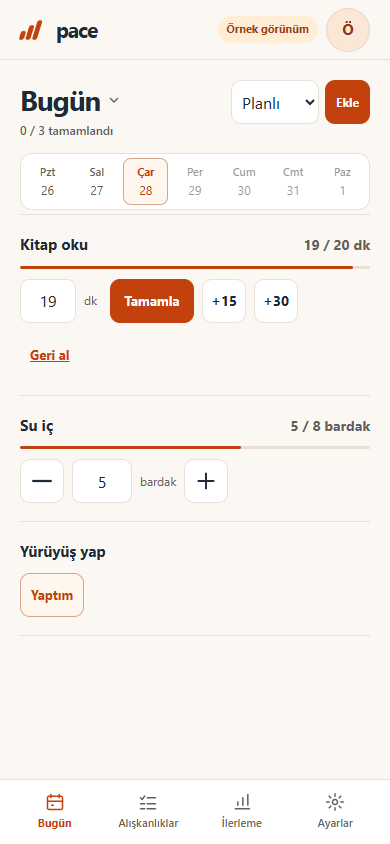
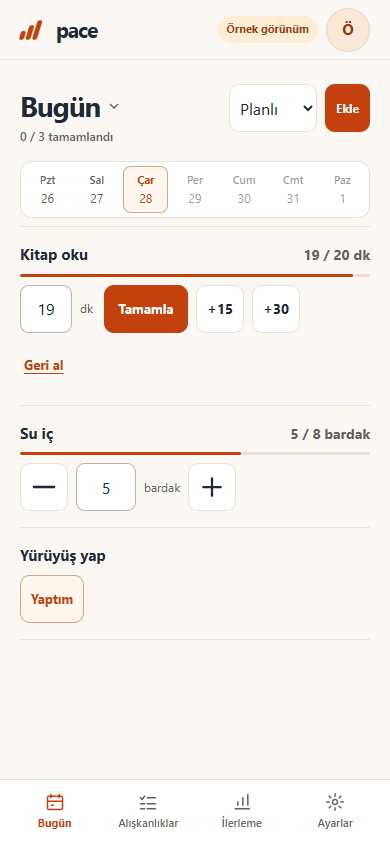
Prevent login flash during session restore and polish mobile spacing and touch targets

diff --git a/assets/js/app.js b/assets/js/app.js
@@ -28,8 +28,8 @@ refresh:()=>loadState({quiet:true}),onChange:(id,day,entry)=>{entryStates.set(ke
 try{const drafts=JSON.parse(storage?.getItem(storageKey)||'[]');for(const d of drafts){const entry=entryQueue.get(d.id,d.day);if(entry&&state.habits.some(h=>h.id===d.id))entryStates.set(keyFor(d.id,d.day),{id:d.id,day:d.day,entry})}}catch{}
 }
 function hasUnsaved(){return Boolean(entryQueue?.hasPending()||invalidDrafts.size)}
-function showAuth(message=''){loadGuard.reset();lastSaveAt=0;clearTimeout(savedStatusTimer);entryQueue?.dispose();entryQueue=null;entryStates.clear();invalidDrafts.clear();state={habits:[],checkins:[],week_start:1,user:null};ready=false;sessionUser=null;$('#app').classList.add('hidden');$('#auth-screen').classList.remove('hidden');setAuthMode('login');$('#auth-password').value='';$('#auth-message').textContent=message}
-function enterApp(user){loadGuard.reset();lastSaveAt=0;clearTimeout(savedStatusTimer);entryQueue?.dispose();entryQueue=null;entryStates.clear();invalidDrafts.clear();sessionUser=user||{email:'Örnek görünüm',id:'demo'};if(isDemo())sessionUser.id='demo';state={habits:[],checkins:[],week_start:user?.week_start??1,user};ready=false;selectedDate=dateKey();showAll=false;$('#auth-screen').classList.add('hidden');$('#app').classList.remove('hidden');$('#account-email').textContent=sessionUser.email;$('#account-button').textContent=sessionUser.email.charAt(0).toLocaleUpperCase('tr-TR');$('#demo-badge').classList.toggle('hidden',!isDemo());$('#delete-account-button').classList.toggle('hidden',isDemo());$('#device-timezone').textContent=Intl.DateTimeFormat().resolvedOptions().timeZone.replaceAll('_',' ');navigate('today');renderAll();void loadState()}
+function showAuth(message=''){$('#startup-screen').hidden=true;$('#startup-screen').classList.add('hidden');loadGuard.reset();lastSaveAt=0;clearTimeout(savedStatusTimer);entryQueue?.dispose();entryQueue=null;entryStates.clear();invalidDrafts.clear();state={habits:[],checkins:[],week_start:1,user:null};ready=false;sessionUser=null;$('#app').hidden=true;$('#app').classList.add('hidden');$('#auth-screen').hidden=false;$('#auth-screen').classList.remove('hidden');setAuthMode('login');$('#auth-password').value='';$('#auth-message').textContent=message}
+function enterApp(user){$('#startup-screen').hidden=true;$('#startup-screen').classList.add('hidden');loadGuard.reset();lastSaveAt=0;clearTimeout(savedStatusTimer);entryQueue?.dispose();entryQueue=null;entryStates.clear();invalidDrafts.clear();sessionUser=user||{email:'Örnek görünüm',id:'demo'};if(isDemo())sessionUser.id='demo';state={habits:[],checkins:[],week_start:user?.week_start??1,user};ready=false;selectedDate=dateKey();showAll=false;$('#auth-screen').hidden=true;$('#auth-screen').classList.add('hidden');$('#app').hidden=false;$('#app').classList.remove('hidden');$('#account-email').textContent=sessionUser.email;$('#account-button').textContent=sessionUser.email.charAt(0).toLocaleUpperCase('tr-TR');$('#demo-badge').classList.toggle('hidden',!isDemo());$('#delete-account-button').classList.toggle('hidden',isDemo());$('#device-timezone').textContent=Intl.DateTimeFormat().resolvedOptions().timeZone.replaceAll('_',' ');navigate('today');renderAll();void loadState()}
 async function loadState({quiet=false}={}){const ticket=loadGuard.begin();if(!quiet)syncState('Yükleniyor…');$('#load-state').classList.toggle('hidden',ready);$('#reload-state').classList.add('hidden');try{const data=await request('habits');if(!loadGuard.isCurrent(ticket)||!sessionUser)return false;state={...state,...data,habits:data.habits||[],checkins:mergeCheckins(state.checkins,data.checkins||[]),week_start:Number(data.week_start??1)};ready=true;if(!entryQueue)setupQueue();$('#load-state').classList.add('hidden');if(quiet&&(hasUnsaved()||document.activeElement?.matches('.amount-input'))){for(const h of state.habits)updateRow(h.id,selectedDate);renderHabits();renderProgress();updateSummary()}else renderAll();return true}catch(e){if(!loadGuard.isCurrent(ticket)||!sessionUser)return false;if(e.status===401){showAuth('Oturumun sona erdi. Yeniden giriş yap.');return false}$('#load-state').classList.remove('hidden');$('#load-message').textContent=ready?'Güncel görünüm yüklenemedi.':'Verilerin yüklenemedi.';$('#reload-state').classList.remove('hidden');syncState('Bağlantı kurulamadı','error');return false}}
 function navigate(view){$$('.nav-item[data-view]').forEach(b=>{b.classList.toggle('is-active',b.dataset.view===view);if(b.dataset.view===view)b.setAttribute('aria-current','page');else b.removeAttribute('aria-current')});$$('.page-view').forEach(p=>p.classList.toggle('hidden',p.id!=='view-'+view));if(view==='progress')renderProgress()}
 function dayMetrics(habit,day,logs){const h=settingsAt(habit,day),actual=amountFor(habit,day,logs),exists=logs.some(x=>!x.deleted&&x.habit_id===habit.id&&x.habit_date===day),goal=h.tracking==='check'?1:goalFor(habit,day,logs,state.week_start);const done=h.tracking==='check'?actual>=1:h.direction==='at_most'?exists&&actual<=goal:actual>=goal;const progress=h.tracking==='check'?Number(done):h.direction==='at_most'?(exists?Math.min(1,goal/Math.max(actual,.001)):0):Math.min(1,actual/goal);return {h,actual,exists,goal,done,progress}}
@@ -98,8 +98,28 @@ $('#confirm-action').addEventListener('click',async()=>{if(!pendingAction)return
 function setAuthMode(mode){authStep=mode;$('#auth-title').textContent=mode==='register'?'Hesap oluştur':mode==='recover'?'Hesabını kurtar':'PACE’e giriş yap';$('#auth-message').textContent='';$('#recovery-field-wrap').classList.toggle('hidden',mode!=='recover');$('#auth-recovery').required=mode==='recover';$('#auth-password').autocomplete=mode==='login'?'current-password':'new-password';$('#auth-password-label').textContent=mode==='recover'?'Yeni parolan':'Parolan';$('#auth-submit').textContent=mode==='register'?'Hesap oluştur':mode==='recover'?'Hesabımı kurtar':'Giriş yap';$('#auth-register-link').classList.toggle('hidden',mode==='register');$('#auth-login-link').classList.toggle('hidden',mode==='login');$('#auth-recover-link').classList.toggle('hidden',mode==='recover')}
 async function submitAuth(e){e.preventDefault();const button=$('#auth-submit');if(button.disabled)return;const email=$('#auth-email').value.trim(),password=$('#auth-password').value,recovery_code=$('#auth-recovery').value.trim();button.disabled=true;$('#auth-message').textContent='';try{const data=await request('auth/'+authStep,{method:'POST',body:JSON.stringify({email,password,...(authStep==='recover'?{recovery_code}:{})})});$('#auth-password').value='';$('#auth-recovery').value='';enterApp(data.user);if(data.recovery_code){$('#recovery-code').value=data.recovery_code;$('#recovery-dialog').showModal()}}catch(err){$('#auth-message').textContent=err.message||'İşlem tamamlanamadı.'}finally{button.disabled=false}}
 
-async function boot(){initWeekdayPicker();bind();if(isDemo()){enterApp({email:'Örnek görünüm',id:'demo'});return}try{const data=await request('auth/me');enterApp(data.user)}catch(e){showAuth(e.status===401?'':e.message)}}
+function showStartupError(){
+  $('#app').hidden=true;$('#app').classList.add('hidden');$('#auth-screen').hidden=true;$('#auth-screen').classList.add('hidden');
+  $('#startup-screen').hidden=false;$('#startup-screen').classList.remove('hidden');
+  $('#startup-message').textContent='PACE’e bağlanılamadı. Bağlantını kontrol edip yeniden dene.';
+  $('#startup-retry').classList.remove('hidden');
+}
+let restoringSession=false;
+async function restoreSession(){
+  if(restoringSession)return;
+  restoringSession=true;$('#startup-retry').disabled=true;
+  $('#startup-message').textContent='PACE hazırlanıyor…';
+  $('#startup-retry').classList.add('hidden');
+  try{
+    if(isDemo()){enterApp({email:'Örnek görünüm',id:'demo'});return}
+    const data=await request('auth/me');
+    if(!data?.user||typeof data.user.id!=='string'||!data.user.id||typeof data.user.email!=='string'||!data.user.email)throw new Error('Geçersiz oturum yanıtı.');
+    enterApp(data.user);
+  }catch(e){if(e.status===401)showAuth();else showStartupError()}
+  finally{restoringSession=false;$('#startup-retry').disabled=false}
+}
+async function boot(){initWeekdayPicker();bind();$('#startup-retry').addEventListener('click',()=>void restoreSession());await restoreSession()}
 if('serviceWorker' in navigator)navigator.serviceWorker.register('/sw.js').catch(()=>{});
-boot();
+boot().catch(showStartupError);
 
 

diff --git a/index.html b/index.html
@@ -12,7 +12,14 @@
   <title>PACE — kendi ritminde</title>
 </head>
 <body>
-  <div id="app" class="app-shell hidden">
+  <section class="startup-screen" id="startup-screen" aria-labelledby="startup-title">
+    <h1 class="startup-brand" id="startup-title"><span class="brand-mark" aria-hidden="true"><i></i><i></i><i></i></span><span>pace</span></h1>
+    <p id="startup-message" role="status" aria-live="polite">PACE hazırlanıyor…</p>
+    <button type="button" id="startup-retry" class="button button-primary hidden">Tekrar dene</button>
+    <details id="startup-fallback" class="startup-fallback"><summary>Açılması uzun mu sürdü?</summary><p>Bağlantını kontrol edip <a href="">sayfayı yenileyebilirsin</a>.</p></details>
+    <noscript><p>PACE’i açmak için tarayıcında JavaScript’i etkinleştirip sayfayı yenile.</p></noscript>
+  </section>
+  <div id="app" class="app-shell hidden" hidden>
     <aside class="sidebar" aria-label="Ana gezinme">
       <a class="brand" href="#today" aria-label="PACE ana sayfa"><span class="brand-mark" aria-hidden="true"><i></i><i></i><i></i></span><span>pace</span></a>
       <nav class="nav-list">
@@ -43,7 +50,7 @@
       <nav class="mobile-nav" aria-label="Ana gezinme"><button class="nav-item is-active" data-view="today" aria-current="page"><span class="nav-icon"><svg viewBox="0 0 24 24" fill="none" stroke="currentColor" stroke-width="1.8" stroke-linecap="round" stroke-linejoin="round" aria-hidden="true"><rect x="3" y="5" width="18" height="16" rx="2"/><path d="M7 3v4m10-4v4M3 11h18m-13 5h2"/></svg></span><span>Bugün</span></button><button class="nav-item" data-view="habits"><span class="nav-icon"><svg viewBox="0 0 24 24" fill="none" stroke="currentColor" stroke-width="1.8" stroke-linecap="round" stroke-linejoin="round" aria-hidden="true"><path d="m3 7 2 2 3-4M11 7h10M3 14h5m3 0h10M3 20h5m3 0h10"/></svg></span><span>Alışkanlıklar</span></button><button class="nav-item" data-view="progress"><span class="nav-icon"><svg viewBox="0 0 24 24" fill="none" stroke="currentColor" stroke-width="1.8" stroke-linecap="round" stroke-linejoin="round" aria-hidden="true"><path d="M4 20h17M7 16v-4m6 4V7m6 9V3"/></svg></span><span>İlerleme</span></button><button class="nav-item" data-view="settings"><span class="nav-icon"><svg viewBox="0 0 24 24" fill="none" stroke="currentColor" stroke-width="1.8" stroke-linecap="round" stroke-linejoin="round" aria-hidden="true"><circle cx="12" cy="12" r="3"/><path d="M12 2v3m0 14v3M2 12h3m14 0h3M5 5l2 2m10 10 2 2M5 19l2-2M17 7l2-2"/></svg></span><span>Ayarlar</span></button></nav>
     </main>
   </div>
-  <section class="auth-screen" id="auth-screen" aria-labelledby="auth-title"><div class="auth-brand"><span class="brand-mark" aria-hidden="true"><i></i><i></i><i></i></span><span>pace</span></div><div class="auth-panel"><h1 id="auth-title">Alışkanlıklarına yer aç.</h1><form id="auth-form"><label for="auth-email">E-posta adresin</label><input id="auth-email" name="email" type="email" autocomplete="username" required placeholder="ornek@email.com"><div id="recovery-field-wrap" class="hidden"><label for="auth-recovery">Kurtarma kodun</label><input id="auth-recovery" name="recovery" type="text" autocomplete="off" spellcheck="false" placeholder="Hesabını açarken kaydettiğin kod"></div><label for="auth-password" id="auth-password-label">Parolan</label><input id="auth-password" name="password" type="password" autocomplete="current-password" minlength="10" maxlength="128" required placeholder="En az 10 karakter"><button class="button button-primary auth-submit" id="auth-submit" type="submit">Giriş yap</button><p class="form-message" id="auth-message" role="status"></p></form><div class="auth-switch"><button type="button" data-auth-mode="register" id="auth-register-link">Hesap oluştur</button><button type="button" data-auth-mode="login" id="auth-login-link" class="hidden">Giriş yap</button><button type="button" data-auth-mode="recover" id="auth-recover-link">Parolamı unuttum</button></div><p class="auth-privacy">Verilerin hesabında saklanır.</p><a class="demo-link" href="?demo=1">Örnek görünümü aç</a></div></section>
+  <section class="auth-screen hidden" id="auth-screen" hidden aria-labelledby="auth-title"><div class="auth-brand"><span class="brand-mark" aria-hidden="true"><i></i><i></i><i></i></span><span>pace</span></div><div class="auth-panel"><h1 id="auth-title">Alışkanlıklarına yer aç.</h1><form id="auth-form"><label for="auth-email">E-posta adresin</label><input id="auth-email" name="email" type="email" autocomplete="username" required placeholder="ornek@email.com"><div id="recovery-field-wrap" class="hidden"><label for="auth-recovery">Kurtarma kodun</label><input id="auth-recovery" name="recovery" type="text" autocomplete="off" spellcheck="false" placeholder="Hesabını açarken kaydettiğin kod"></div><label for="auth-password" id="auth-password-label">Parolan</label><input id="auth-password" name="password" type="password" autocomplete="current-password" minlength="10" maxlength="128" required placeholder="En az 10 karakter"><button class="button button-primary auth-submit" id="auth-submit" type="submit">Giriş yap</button><p class="form-message" id="auth-message" role="status"></p></form><div class="auth-switch"><button type="button" data-auth-mode="register" id="auth-register-link">Hesap oluştur</button><button type="button" data-auth-mode="login" id="auth-login-link" class="hidden">Giriş yap</button><button type="button" data-auth-mode="recover" id="auth-recover-link">Parolamı unuttum</button></div><p class="auth-privacy">Verilerin hesabında saklanır.</p><a class="demo-link" href="?demo=1">Örnek görünümü aç</a></div></section>
   <dialog class="habit-dialog" id="habit-dialog" aria-labelledby="habit-dialog-title"><form id="habit-form" novalidate>
     <div class="dialog-header"><h2 id="habit-dialog-title">Alışkanlık ekle</h2><button class="icon-button" type="button" data-close-dialog aria-label="Pencereyi kapat"><svg viewBox="0 0 24 24" fill="none" stroke="currentColor" stroke-width="2" aria-hidden="true"><path d="m6 6 12 12M18 6 6 18"/></svg></button></div>
     <div class="dialog-body"><input type="hidden" id="habit-id">

diff --git a/assets/styles.css b/assets/styles.css
@@ -29,3 +29,48 @@ html{touch-action:pan-x pan-y;-webkit-text-size-adjust:100%;text-size-adjust:100
 
 /* Save feedback shares the title caption so recording never moves the list. */
 #view-today .page-heading{position:relative}#view-today .today-heading-actions{padding-bottom:12px}#view-today #today-status{position:absolute;bottom:0;right:0;margin:0;max-width:48%;font-size:11px;text-align:right;line-height:1.4}#today-list .amount-control,#today-list .time-control{gap:8px}.amount-input{appearance:textfield;-moz-appearance:textfield}.amount-input::-webkit-inner-spin-button,.amount-input::-webkit-outer-spin-button{-webkit-appearance:none;margin:0}.amount-input:focus-visible{outline-offset:2px}
+
+/* Comfortable controls and a shared eight-pixel rhythm. */
+:root{--control-size:48px;--control-gap:8px}
+.button,.log-button,.text-button,.all-filter,.small-action,.habit-filter select,#record-date,#back-today,#reload-state,.period-select select,.settings-row select,.field input,.field select,.segmented span,.schedule-options span,.step-presets button,.advanced-options summary,.archive-section>summary{min-height:var(--control-size)}
+.step-button,.more-button,.icon-button{width:var(--control-size);height:var(--control-size);flex-basis:var(--control-size)}
+.amount-input{height:var(--control-size);border-color:#bdb5ad;caret-color:var(--orange);font-variant-numeric:tabular-nums}
+#today-list .habit-row{padding:16px 0;gap:var(--control-gap)}
+#today-list .habit-actions,#today-list .habit-row.is-check .habit-actions{gap:var(--control-gap)}
+#today-list .amount-control,#today-list .time-control{gap:var(--control-gap);max-width:100%;flex-wrap:wrap}
+#today-list .primary-step{width:var(--control-size);min-width:var(--control-size);height:var(--control-size);min-height:var(--control-size)}
+#today-list .primary-step.is-goal-step{width:84px;min-width:84px;padding:0 8px;white-space:nowrap}
+#today-list .time-control .amount-input{width:52px;flex:0 0 52px}
+#today-list .time-control .amount-unit{width:16px;flex:0 0 16px;max-width:none;white-space:nowrap}
+#today-list .time-control .time-step{width:var(--control-size);min-width:var(--control-size);height:var(--control-size);flex:0 0 var(--control-size)}
+#today-list .entry-feedback{gap:var(--control-gap);line-height:1.4}
+#today-list .entry-feedback button{min-height:var(--control-size);padding:0 4px;text-underline-offset:3px}
+#view-today .page-heading{margin-bottom:16px}
+#view-today .today-heading-actions{gap:var(--control-gap)}
+.week-strip{margin-bottom:8px}
+.settings-section{padding:24px 0}.dialog-body{gap:24px}.field{gap:8px}.field-grid,.dialog-actions{gap:8px}
+::selection{background:var(--orange-soft);color:#9a3412}input,textarea{caret-color:var(--orange)}
+html{scrollbar-color:#c7bdb2 var(--canvas);scrollbar-width:thin}
+
+/* Startup is a quiet holding surface, with recovery kept within reach. */
+.startup-screen{position:fixed;inset:0;z-index:40;display:flex;flex-direction:column;align-items:center;justify-content:center;gap:16px;padding:32px 24px;background:var(--canvas);color:var(--ink);text-align:center;overflow:auto}
+.startup-brand{display:flex;align-items:center;justify-content:center;gap:12px;font-size:28px;font-weight:750;letter-spacing:-1px}
+#startup-message{margin:0;max-width:30ch;color:var(--muted);font-size:14px;line-height:1.5}
+#startup-retry{min-height:48px;padding:10px 20px;border:1px solid var(--border);border-radius:10px;background:var(--surface);color:var(--ink);font-weight:650}
+#startup-fallback{max-width:32ch;color:var(--muted);font-size:13px}
+#startup-fallback summary{min-height:48px;padding:14px 8px;cursor:pointer}
+#startup-fallback p{margin:0 0 8px}#startup-fallback a{display:inline-flex;align-items:center;min-height:48px;padding:8px;color:var(--orange);text-underline-offset:3px}
+.startup-screen noscript{max-width:32ch;color:var(--muted);font-size:14px}
+@media(max-width:767px){.content-wrap{padding-top:24px}#today-list .habit-row{padding:16px 0;gap:8px}.page-heading .button{min-height:48px}.dialog-body{gap:24px}.today-heading-actions{gap:8px}}
+
+/* Native visibility must win over the startup surface's flex layout. */
+[hidden]{display:none!important}
+/* Progression shortcuts belong above their fields, never in a side rail. */
+.rule-option{display:block;min-width:0}
+.rule-option .step-presets{display:flex;flex-direction:row;flex-wrap:wrap;gap:8px;margin:0 0 16px}
+.step-presets button{min-width:48px;min-height:48px;justify-content:center;font-weight:650}
+.step-presets button[aria-pressed=true]{background:var(--orange);border-color:var(--orange);color:var(--surface)}
+.step-presets button[aria-pressed=false]:hover{background:var(--orange-pale);border-color:#d7a488;color:var(--orange)}
+@media(max-width:360px){.rule-option .field-grid{grid-template-columns:minmax(0,1fr);gap:16px}}
+
+.startup-brand{margin:0}

diff --git a/assets/js/api.js b/assets/js/api.js
@@ -1,6 +1,7 @@
 const DEMO_KEY='pace_demo_state_v1';
 const params=new URLSearchParams(location.search);
-export const demoMode=params.has('demo') || sessionStorage.getItem('pace_demo')==='1';
+function rememberedDemo(){try{return sessionStorage.getItem('pace_demo')==='1'}catch{return false}}
+export const demoMode=params.has('demo') || rememberedDemo();
 const today=()=>{const d=new Date();return d.getFullYear()+'-'+String(d.getMonth()+1).padStart(2,'0')+'-'+String(d.getDate()).padStart(2,'0')};
 function seedDemo(){const t=today();const d=new Date();const monday=new Date(d);monday.setDate(d.getDate()-(d.getDay()+6)%7);const start=monday.getFullYear()+'-'+String(monday.getMonth()+1).padStart(2,'0')+'-'+String(monday.getDate()).padStart(2,'0');return {user:{email:'demo@pace.app'},week_start:1,habits:[{id:'demo-reading',name:'Kitap oku',tracking:'quantity',direction:'at_least',unit:'dakika',target:20,schedule:{type:'daily'},progression:{enabled:false,step:0},debt:{enabled:false},start_date:start,created_at:new Date().toISOString()},{id:'demo-water',name:'Su iç',tracking:'quantity',direction:'at_least',unit:'bardak',target:8,schedule:{type:'daily'},progression:{enabled:false,step:0},debt:{enabled:false},start_date:start,created_at:new Date().toISOString()},{id:'demo-walk',name:'Yürüyüş yap',tracking:'check',direction:'at_least',unit:'',target:1,schedule:{type:'weekdays',days:[1,3,5]},progression:{enabled:false,step:0},debt:{enabled:false},start_date:start,created_at:new Date().toISOString()}],checkins:[{id:'demo-log-1',habit_id:'demo-reading',habit_date:t,value:12},{id:'demo-log-2',habit_id:'demo-water',habit_date:t,value:5}]}}
 function getDemo(){let raw=localStorage.getItem(DEMO_KEY);if(!raw){const s=seedDemo();localStorage.setItem(DEMO_KEY,JSON.stringify(s));return s}try{return JSON.parse(raw)}catch{return seedDemo()}}

diff --git a/sw.js b/sw.js
@@ -1,4 +1,4 @@
-const CACHE='pace-shell-v5';
+const CACHE='pace-shell-v6';
 const SHELL=['/','/index.html','/manifest.webmanifest','/assets/styles.css','/assets/js/app.js','/assets/js/api.js','/assets/js/rules.js','/assets/js/entry-queue.js','/assets/js/state-sync.js','/assets/js/statistics.js','/assets/js/entry-affordances.js','/assets/js/habit-form.js','/assets/icons/pace.svg','/assets/icons/pace-180.png','/assets/icons/pace-192.png','/assets/icons/pace-512.png'];
 self.addEventListener('install',event=>event.waitUntil(caches.open(CACHE).then(c=>c.addAll(SHELL)).then(()=>self.skipWaiting())));
 self.addEventListener('activate',event=>event.waitUntil(caches.keys().then(keys=>Promise.all(keys.filter(k=>k.startsWith('pace-shell-')&&k!==CACHE).map(k=>caches.delete(k)))).then(()=>self.clients.claim())));

diff --git a/docs/UX-REVIEW.md b/docs/UX-REVIEW.md
@@ -52,3 +52,13 @@ All six critique priorities addressed:20px responsive gutters, collapsed date ac
 Seven new unit checks cover exact completion, decimal values, unit aliases, completed/max/check targets and invalid quantities. Browser coverage includes completion undo, date history/escape/focus, out-of-plan filtering, disabled controls, responsive gutters/navigation and stable save feedback.
 
 Final verification:64 unit/logic tests and31 browser checks passed. Source syntax and static build passed. Final390px and490px demo captures were visually inspected.
+
+## Opening flash and iterative control review
+
+Three specialist agents covered startup diagnosis/repair, spacing/control implementation and independent visual review. Two review cycles resolved the login flash and advanced-form preset alignment. Initial HTML now shows a neutral startup surface; valid sessions never expose the login form,401 opens login, and server/network/timeout/malformed responses retain retry. Native hidden attributes plus explicit CSS protect pre-module visibility. Denied sessionStorage no longer blocks normal startup.
+
+Primary recording targets are48px with8px gaps; presets have a visible selected state and sit above their fields. Small forms, login, startup, Today and Progress were visually reviewed after changes. Remaining blockers: none found in the final review. This is bounded verification, not a claim of faultlessness on all devices.
+
+Verification:64 core tests passed;32 UI browser checks passed with zero runtime/fixture errors. Startup browser cases sample auth visibility on every animation frame and DOM mutation, including delayed code/session,401,503/network retry, actual12s timeout, malformed user response, demo, module failure, noJavaScript and denied storage. Final counts are recorded after the last startup run.
+
+Final startup rerun:11 passed,0 failed. Source syntax and production build passed after final session-payload validation.

diff --git a/DESIGN.md b/DESIGN.md
@@ -30,3 +30,7 @@ Remove Today row overflow/edit actions. Align amount controls to the left on pho
 ## Critique resolutions
 
 Enforce20px mobile gutters with safe-area fallbacks, including the supplied490×779 screenshot dimensions. Use one-column habit rows with left-aligned actions for every tracking type. Quantities pair actual and target on one line and use the available track width. Remove binary progress tracks. Date input stays collapsed behind the heading; save status occupies the existing caption line without causing layout movement. Bottom navigation stays fixed through767px widths and scrolling. Native input spinner chrome is hidden for amount fields; keyboard semantics and16px text remain.
+
+## Spacing and startup review loop
+
+Primary recording controls use48px targets with8px gaps; week dates remain44px. Minute controls fit the280px inner width at320px without overflow; safe-area pressure permits wrapping. Rows use16px vertical padding and8px internal gaps. Advanced progression presets form one horizontal row above their fields, with an orange selected state. Startup is centered brand/status, with recovery in a collapsed disclosure; app and login stay hidden until session resolution.

diff --git a/PRODUCT.md b/PRODUCT.md
@@ -23,3 +23,7 @@ Today contains recording actions only; edit routines in Habits. Progress default
 ## Exact completion and daily layout
 
 Daily rows share the same left-aligned recording layout. Quantities display actual/target together and a full-width progress track; binary habits have no redundant track. The smallest increment becomes Tamamla when a minimum target is within one ordinary step (5 minutes or1 unit), saving the exact target. Maximum targets never receive this shortcut. Zero cannot be decremented. Save feedback does not shift the list.
+
+## Session startup
+
+Initial HTML exposes only a neutral branded startup surface. A confirmed session enters Today; only401 opens login. Network/server/timeout/invalid-session responses retain startup and offer retry. An unavailable sessionStorage does not prevent regular account startup. Demo bypasses session validation. Reload guidance and a no-JavaScript fallback remain available when application code cannot load.

diff --git a/README.md b/README.md
@@ -16,6 +16,7 @@
 - Use fixed goals or increase numeric goals by a chosen step.
 - Optionally carry an unfinished minimum goal to the next planned period.
 - Keep account data in Cloudflare D1 and sign in with an email address and password.
+- Restore an existing session through a neutral startup screen, with a retry state for connection failures.
 - Install the website as a PWA; the app shell can open offline, while cloud saves clearly require a connection.
 - Review all-time or last 7/30-day totals, averages per recorded day, highest daily amounts, and entry dates. Historical units remain separate and archived habits remain in reports.
 - Keep daily recording separate from editing in the Habits screen.
